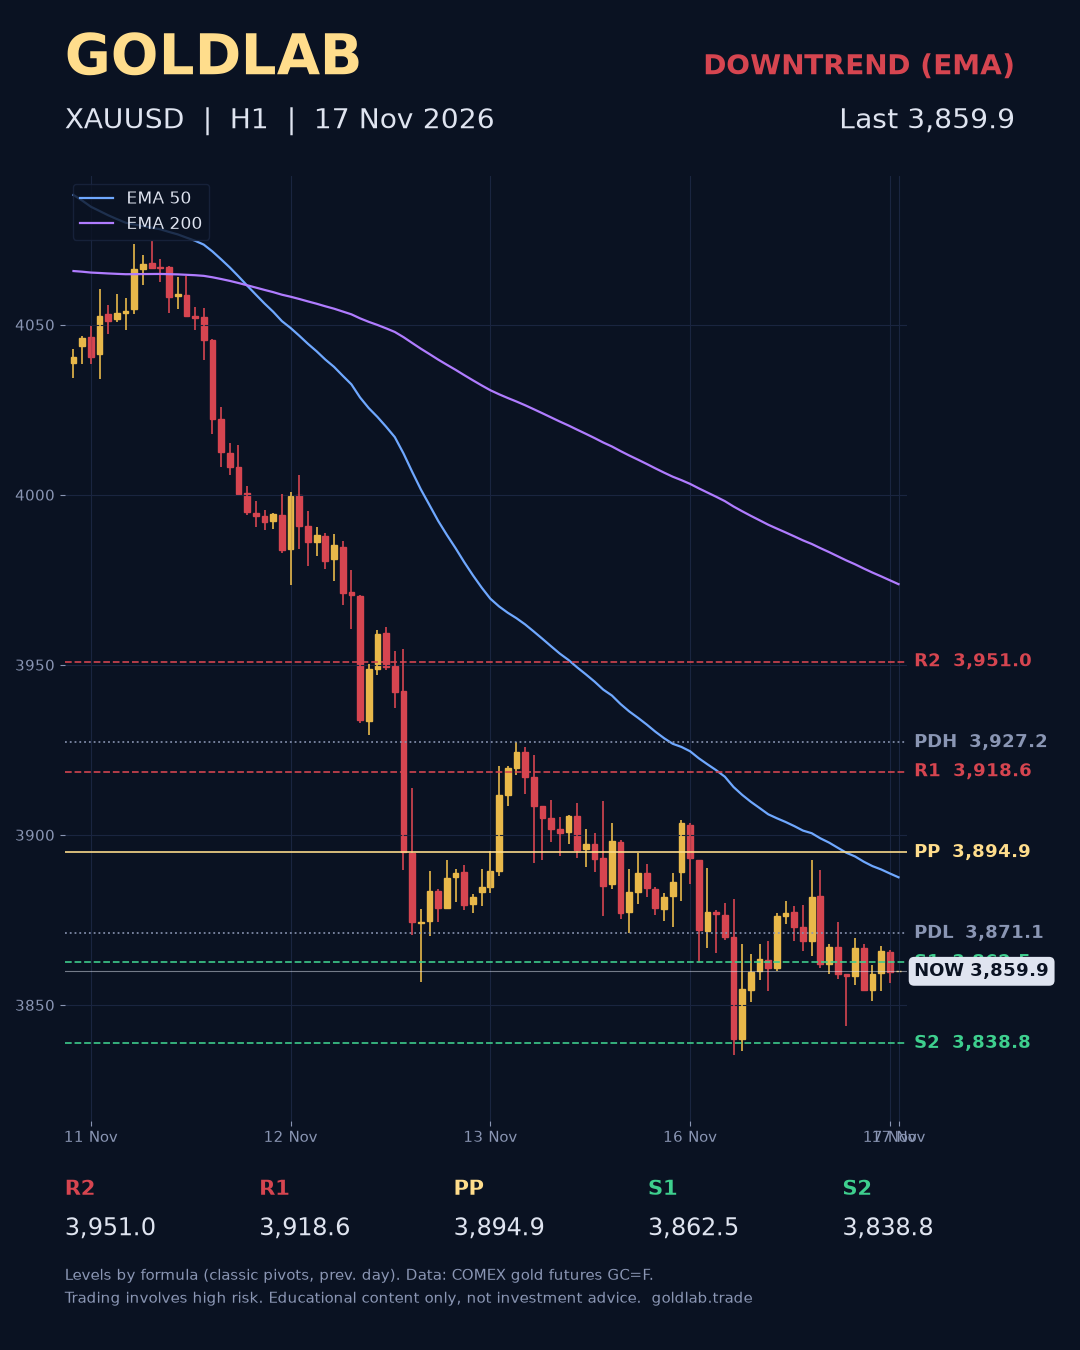
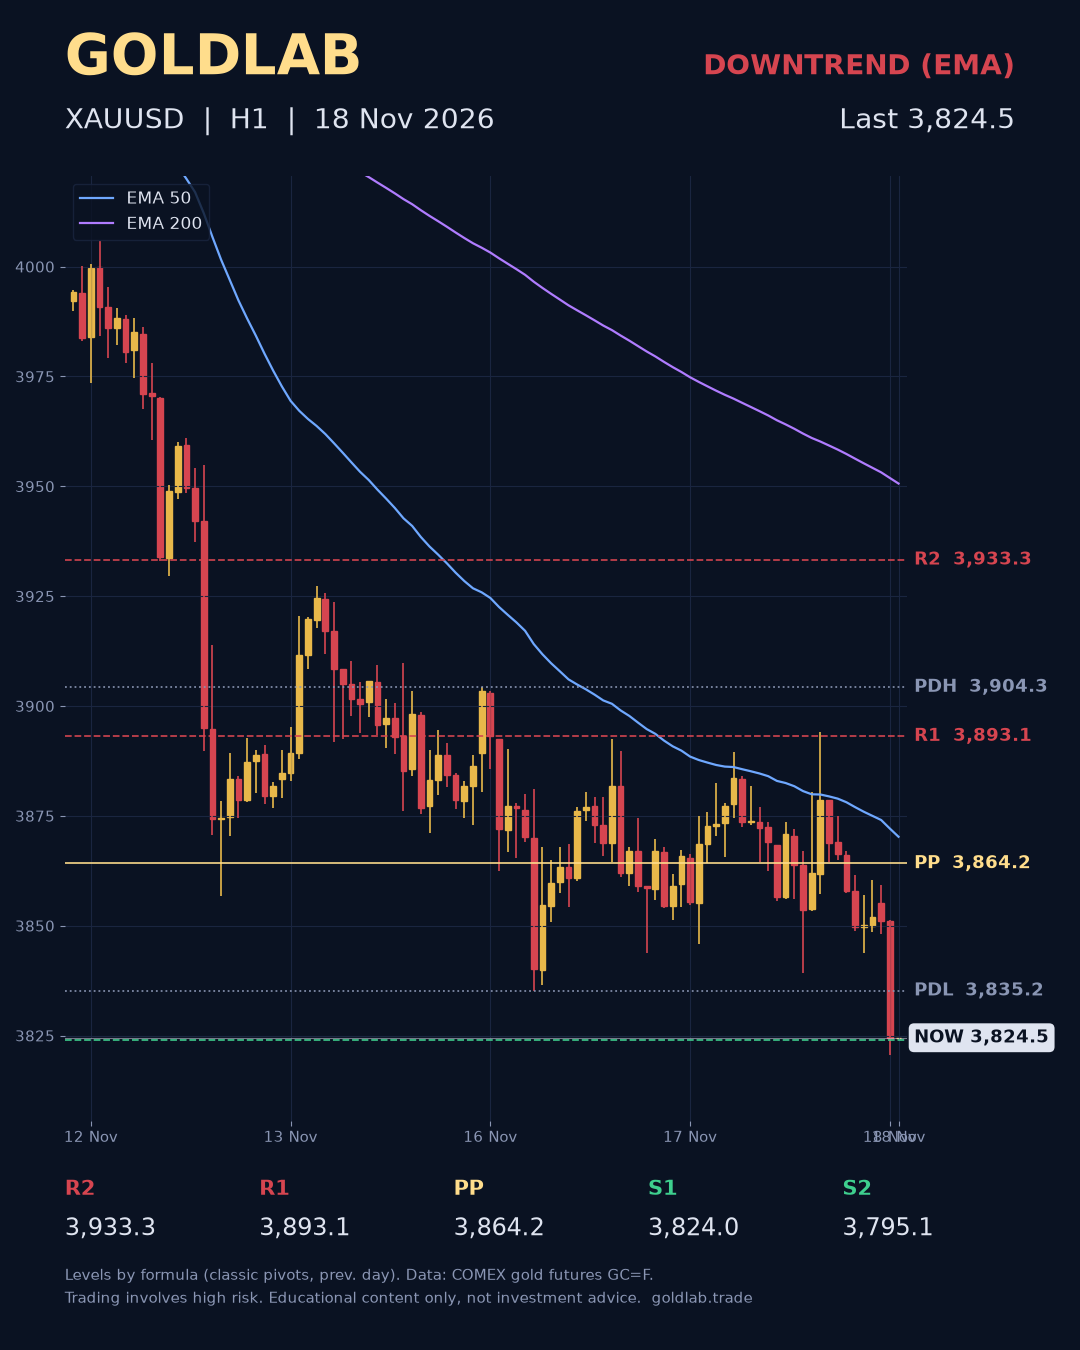
Update gold price 3,824.5 (2026-11-18 00:45 UTC)

diff --git a/th/index.html b/th/index.html
@@ -61,7 +61,7 @@
     </div>
     <figure class="chart-card">
       <img src="../assets/latest.png" alt="กราฟ XAUUSD · H1" width="1080" height="1350">
-      <figcaption class="chart-meta"><span>กราฟ XAUUSD · H1</span><span>อัปเดต <b>2026-11-17 00:45 UTC</b></span></figcaption>
+      <figcaption class="chart-meta"><span>กราฟ XAUUSD · H1</span><span>อัปเดต <b>2026-11-18 00:45 UTC</b></span></figcaption>
     </figure>
   </div>
 </section>
@@ -76,19 +76,19 @@
     <div class="levels">
       <div class="panel">
         <div class="label">ราคาล่าสุด (USD/ออนซ์)</div>
-        <div class="price-big">3,859.9</div>
+        <div class="price-big">3,824.5</div>
         <span class="trend down">ขาลง</span>
         <p class="trend-note">ราคาอยู่ใต้ EMA 50 และ 200 บนกราฟ H1</p>
       </div>
       <div class="panel">
         <div class="ladder">
-          <div class="row r"><span class="tag">R2</span><span class="bar"></span><span class="val">3,951.0</span></div>
-          <div class="row r"><span class="tag">R1</span><span class="bar"></span><span class="val">3,918.6</span></div>
-          <div class="row p"><span class="tag">PIVOT</span><span class="bar"></span><span class="val">3,894.9</span></div>
-          <div class="row s"><span class="tag">S1</span><span class="bar"></span><span class="val">3,862.5</span></div>
-          <div class="row s"><span class="tag">S2</span><span class="bar"></span><span class="val">3,838.8</span></div>
+          <div class="row r"><span class="tag">R2</span><span class="bar"></span><span class="val">3,933.3</span></div>
+          <div class="row r"><span class="tag">R1</span><span class="bar"></span><span class="val">3,893.1</span></div>
+          <div class="row p"><span class="tag">PIVOT</span><span class="bar"></span><span class="val">3,864.2</span></div>
+          <div class="row s"><span class="tag">S1</span><span class="bar"></span><span class="val">3,824.0</span></div>
+          <div class="row s"><span class="tag">S2</span><span class="bar"></span><span class="val">3,795.1</span></div>
         </div>
-        <p class="src">High วันก่อน <b>3,927.2</b> · Low วันก่อน <b>3,871.1</b><br>ข้อมูล: ทองคำล่วงหน้า COMEX (GC=F) ล่าช้าประมาณ 15 นาที ราคาอาจต่างจากราคา spot ในโบรกของคุณเล็กน้อย</p>
+        <p class="src">High วันก่อน <b>3,904.3</b> · Low วันก่อน <b>3,835.2</b><br>ข้อมูล: ทองคำล่วงหน้า COMEX (GC=F) ล่าช้าประมาณ 15 นาที ราคาอาจต่างจากราคา spot ในโบรกของคุณเล็กน้อย</p>
       </div>
     </div>
   </div>

diff --git a/vi/index.html b/vi/index.html
@@ -61,7 +61,7 @@
     </div>
     <figure class="chart-card">
       <img src="../assets/latest.png" alt="Biểu đồ XAUUSD · H1" width="1080" height="1350">
-      <figcaption class="chart-meta"><span>Biểu đồ XAUUSD · H1</span><span>Cập nhật <b>2026-11-17 00:45 UTC</b></span></figcaption>
+      <figcaption class="chart-meta"><span>Biểu đồ XAUUSD · H1</span><span>Cập nhật <b>2026-11-18 00:45 UTC</b></span></figcaption>
     </figure>
   </div>
 </section>
@@ -76,19 +76,19 @@
     <div class="levels">
       <div class="panel">
         <div class="label">Giá gần nhất (USD/oz)</div>
-        <div class="price-big">3,859.9</div>
+        <div class="price-big">3,824.5</div>
         <span class="trend down">Xu hướng giảm</span>
         <p class="trend-note">Giá nằm dưới cả EMA 50 và 200 khung H1.</p>
       </div>
       <div class="panel">
         <div class="ladder">
-          <div class="row r"><span class="tag">R2</span><span class="bar"></span><span class="val">3,951.0</span></div>
-          <div class="row r"><span class="tag">R1</span><span class="bar"></span><span class="val">3,918.6</span></div>
-          <div class="row p"><span class="tag">PIVOT</span><span class="bar"></span><span class="val">3,894.9</span></div>
-          <div class="row s"><span class="tag">S1</span><span class="bar"></span><span class="val">3,862.5</span></div>
-          <div class="row s"><span class="tag">S2</span><span class="bar"></span><span class="val">3,838.8</span></div>
+          <div class="row r"><span class="tag">R2</span><span class="bar"></span><span class="val">3,933.3</span></div>
+          <div class="row r"><span class="tag">R1</span><span class="bar"></span><span class="val">3,893.1</span></div>
+          <div class="row p"><span class="tag">PIVOT</span><span class="bar"></span><span class="val">3,864.2</span></div>
+          <div class="row s"><span class="tag">S1</span><span class="bar"></span><span class="val">3,824.0</span></div>
+          <div class="row s"><span class="tag">S2</span><span class="bar"></span><span class="val">3,795.1</span></div>
         </div>
-        <p class="src">Đỉnh phiên trước <b>3,927.2</b> · Đáy phiên trước <b>3,871.1</b><br>Dữ liệu: hợp đồng vàng tương lai COMEX (GC=F), trễ khoảng 15 phút. Giá có thể chênh vài đô la so với giá spot của sàn bạn dùng.</p>
+        <p class="src">Đỉnh phiên trước <b>3,904.3</b> · Đáy phiên trước <b>3,835.2</b><br>Dữ liệu: hợp đồng vàng tương lai COMEX (GC=F), trễ khoảng 15 phút. Giá có thể chênh vài đô la so với giá spot của sàn bạn dùng.</p>
       </div>
     </div>
   </div>

diff --git a/es/index.html b/es/index.html
@@ -61,7 +61,7 @@
     </div>
     <figure class="chart-card">
       <img src="../assets/latest.png" alt="Gráfico XAUUSD · H1" width="1080" height="1350">
-      <figcaption class="chart-meta"><span>Gráfico XAUUSD · H1</span><span>Actualizado <b>2026-11-17 00:45 UTC</b></span></figcaption>
+      <figcaption class="chart-meta"><span>Gráfico XAUUSD · H1</span><span>Actualizado <b>2026-11-18 00:45 UTC</b></span></figcaption>
     </figure>
   </div>
 </section>
@@ -76,19 +76,19 @@
     <div class="levels">
       <div class="panel">
         <div class="label">Último precio (USD/oz)</div>
-        <div class="price-big">3,859.9</div>
+        <div class="price-big">3,824.5</div>
         <span class="trend down">Tendencia bajista</span>
         <p class="trend-note">El precio está por debajo de la EMA 50 y 200 en H1.</p>
       </div>
       <div class="panel">
         <div class="ladder">
-          <div class="row r"><span class="tag">R2</span><span class="bar"></span><span class="val">3,951.0</span></div>
-          <div class="row r"><span class="tag">R1</span><span class="bar"></span><span class="val">3,918.6</span></div>
-          <div class="row p"><span class="tag">PIVOT</span><span class="bar"></span><span class="val">3,894.9</span></div>
-          <div class="row s"><span class="tag">S1</span><span class="bar"></span><span class="val">3,862.5</span></div>
-          <div class="row s"><span class="tag">S2</span><span class="bar"></span><span class="val">3,838.8</span></div>
+          <div class="row r"><span class="tag">R2</span><span class="bar"></span><span class="val">3,933.3</span></div>
+          <div class="row r"><span class="tag">R1</span><span class="bar"></span><span class="val">3,893.1</span></div>
+          <div class="row p"><span class="tag">PIVOT</span><span class="bar"></span><span class="val">3,864.2</span></div>
+          <div class="row s"><span class="tag">S1</span><span class="bar"></span><span class="val">3,824.0</span></div>
+          <div class="row s"><span class="tag">S2</span><span class="bar"></span><span class="val">3,795.1</span></div>
         </div>
-        <p class="src">Máximo anterior <b>3,927.2</b> · Mínimo anterior <b>3,871.1</b><br>Datos: futuros de oro COMEX (GC=F), con ~15 min de retraso. Pueden diferir unos dólares del precio spot de tu bróker.</p>
+        <p class="src">Máximo anterior <b>3,904.3</b> · Mínimo anterior <b>3,835.2</b><br>Datos: futuros de oro COMEX (GC=F), con ~15 min de retraso. Pueden diferir unos dólares del precio spot de tu bróker.</p>
       </div>
     </div>
   </div>

diff --git a/id/index.html b/id/index.html
@@ -61,7 +61,7 @@
     </div>
     <figure class="chart-card">
       <img src="../assets/latest.png" alt="Grafik XAUUSD · H1" width="1080" height="1350">
-      <figcaption class="chart-meta"><span>Grafik XAUUSD · H1</span><span>Diperbarui <b>2026-11-17 00:45 UTC</b></span></figcaption>
+      <figcaption class="chart-meta"><span>Grafik XAUUSD · H1</span><span>Diperbarui <b>2026-11-18 00:45 UTC</b></span></figcaption>
     </figure>
   </div>
 </section>
@@ -76,19 +76,19 @@
     <div class="levels">
       <div class="panel">
         <div class="label">Harga terakhir (USD/oz)</div>
-        <div class="price-big">3,859.9</div>
+        <div class="price-big">3,824.5</div>
         <span class="trend down">Tren turun</span>
         <p class="trend-note">Harga berada di bawah EMA 50 dan 200 pada H1.</p>
       </div>
       <div class="panel">
         <div class="ladder">
-          <div class="row r"><span class="tag">R2</span><span class="bar"></span><span class="val">3,951.0</span></div>
-          <div class="row r"><span class="tag">R1</span><span class="bar"></span><span class="val">3,918.6</span></div>
-          <div class="row p"><span class="tag">PIVOT</span><span class="bar"></span><span class="val">3,894.9</span></div>
-          <div class="row s"><span class="tag">S1</span><span class="bar"></span><span class="val">3,862.5</span></div>
-          <div class="row s"><span class="tag">S2</span><span class="bar"></span><span class="val">3,838.8</span></div>
+          <div class="row r"><span class="tag">R2</span><span class="bar"></span><span class="val">3,933.3</span></div>
+          <div class="row r"><span class="tag">R1</span><span class="bar"></span><span class="val">3,893.1</span></div>
+          <div class="row p"><span class="tag">PIVOT</span><span class="bar"></span><span class="val">3,864.2</span></div>
+          <div class="row s"><span class="tag">S1</span><span class="bar"></span><span class="val">3,824.0</span></div>
+          <div class="row s"><span class="tag">S2</span><span class="bar"></span><span class="val">3,795.1</span></div>
         </div>
-        <p class="src">High sebelumnya <b>3,927.2</b> · Low sebelumnya <b>3,871.1</b><br>Data: emas berjangka COMEX (GC=F), tertunda ~15 menit. Harga bisa berbeda beberapa dolar dari harga spot broker Anda.</p>
+        <p class="src">High sebelumnya <b>3,904.3</b> · Low sebelumnya <b>3,835.2</b><br>Data: emas berjangka COMEX (GC=F), tertunda ~15 menit. Harga bisa berbeda beberapa dolar dari harga spot broker Anda.</p>
       </div>
     </div>
   </div>

diff --git a/index.html b/index.html
@@ -61,7 +61,7 @@
     </div>
     <figure class="chart-card">
       <img src="assets/latest.png" alt="XAUUSD · H1 chart" width="1080" height="1350">
-      <figcaption class="chart-meta"><span>XAUUSD · H1 chart</span><span>Updated <b>2026-11-17 00:45 UTC</b></span></figcaption>
+      <figcaption class="chart-meta"><span>XAUUSD · H1 chart</span><span>Updated <b>2026-11-18 00:45 UTC</b></span></figcaption>
     </figure>
   </div>
 </section>
@@ -76,19 +76,19 @@
     <div class="levels">
       <div class="panel">
         <div class="label">Last price (USD/oz)</div>
-        <div class="price-big">3,859.9</div>
+        <div class="price-big">3,824.5</div>
         <span class="trend down">Downtrend</span>
         <p class="trend-note">Price is below both the 50 and 200 EMA on H1.</p>
       </div>
       <div class="panel">
         <div class="ladder">
-          <div class="row r"><span class="tag">R2</span><span class="bar"></span><span class="val">3,951.0</span></div>
-          <div class="row r"><span class="tag">R1</span><span class="bar"></span><span class="val">3,918.6</span></div>
-          <div class="row p"><span class="tag">PIVOT</span><span class="bar"></span><span class="val">3,894.9</span></div>
-          <div class="row s"><span class="tag">S1</span><span class="bar"></span><span class="val">3,862.5</span></div>
-          <div class="row s"><span class="tag">S2</span><span class="bar"></span><span class="val">3,838.8</span></div>
+          <div class="row r"><span class="tag">R2</span><span class="bar"></span><span class="val">3,933.3</span></div>
+          <div class="row r"><span class="tag">R1</span><span class="bar"></span><span class="val">3,893.1</span></div>
+          <div class="row p"><span class="tag">PIVOT</span><span class="bar"></span><span class="val">3,864.2</span></div>
+          <div class="row s"><span class="tag">S1</span><span class="bar"></span><span class="val">3,824.0</span></div>
+          <div class="row s"><span class="tag">S2</span><span class="bar"></span><span class="val">3,795.1</span></div>
         </div>
-        <p class="src">Previous high <b>3,927.2</b> · Previous low <b>3,871.1</b><br>Data: COMEX gold futures (GC=F), delayed ~15 min. Quotes can differ from your broker's spot price by a few dollars.</p>
+        <p class="src">Previous high <b>3,904.3</b> · Previous low <b>3,835.2</b><br>Data: COMEX gold futures (GC=F), delayed ~15 min. Quotes can differ from your broker's spot price by a few dollars.</p>
       </div>
     </div>
   </div>
